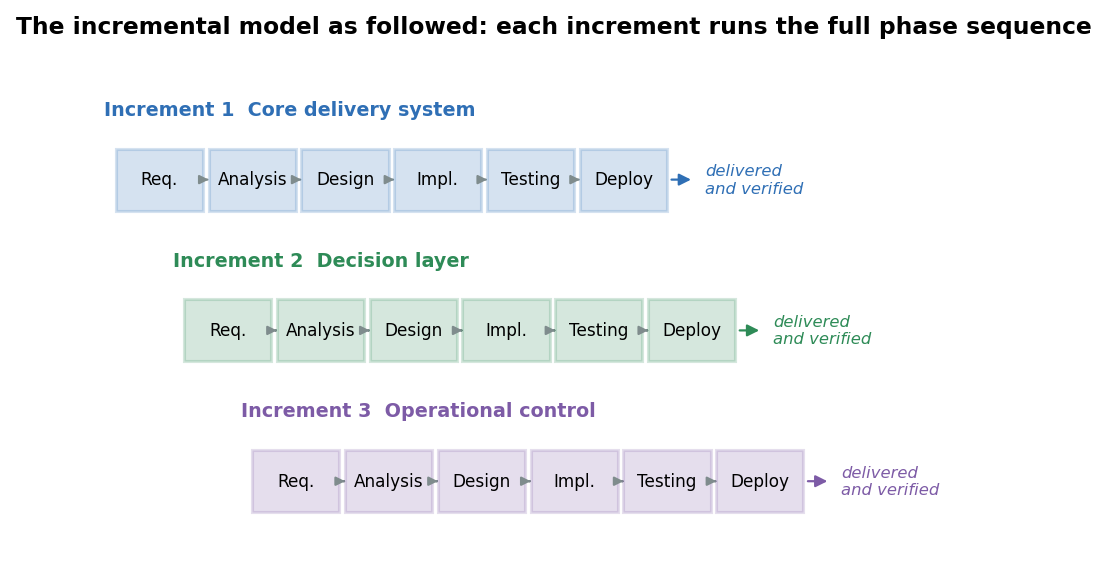
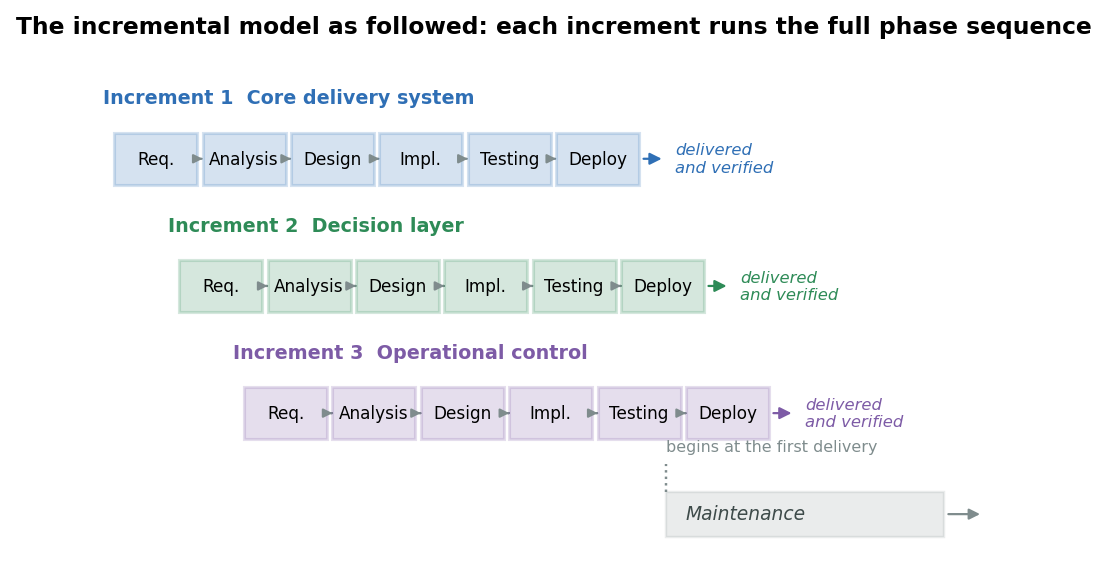
Put maintenance into the process, where it was missing
Maintenance appeared once in the whole report, as half a row in the phases
table. That was a real gap: it is a stage of the process the guidelines require
described, and the phases table claimed every phase runs inside every increment,
which is not true of this one.

Deployment and maintenance are now separate rows, because they behave
differently. Deployment runs once per increment. Maintenance is not bounded by
an increment at all: the moment the first increment was delivered, every later
change to it became maintenance by definition. The second increment did not only
add to the first, it modified delivered code - removing the scheduler, replacing
the retry state machine, changing service to arrival order, rebuilding the
interface. That is maintenance carried out as part of the next increment, and
Sommerville's point that the distinction stops being useful in iterative
processes is exactly what this project shows.

The figure now draws maintenance as a band starting at the first delivery and
running past the last increment, rather than as a phase box at the end of a row,
which would have said the opposite of what happened.

A new section gives the four kinds with the work that belongs to each, all of it
traceable: corrective, the stale process holding the port and the stop script
missing the condition monitor; adaptive, the framework deprecation and the
simulator's predecessor reaching end of life; perfective, the battery retuning
[…]

Changed region(s): [[0.1536, 0.4345, 0.86, 0.931], [0.0921, 0.1552, 0.7371, 0.4034], [0.86, 0.869, 0.8907, 0.9]]

diff --git a/report/RoboFetch_Software_Engineering_Report.tex b/report/RoboFetch_Software_Engineering_Report.tex
@@ -420,7 +420,9 @@ record.
 \uploadedfigure{Figures/fig-incremental-model.png}{0.95\textwidth}
 {The process as followed. Each increment runs the full sequence of phases and ends in a delivered,
 verified subset of the system; the specification is fixed for the increment being built, not for
-the project as a whole.}{fig:incremental}
+the project as a whole. Maintenance is drawn as a band rather than as a phase box, because it is
+not bounded by an increment: it begins the moment the first increment is delivered and continues
+across all of them.}{fig:incremental}
 
 \section{Phases and Their Deliverables}
 The table below gives the phases and what each produced. Every phase runs inside \textbf{every}
@@ -445,8 +447,11 @@ pipeline, delivered across the three increments of Section~\ref{sec:increments}.
 Testing & The automated test suites, and the acceptance suite that runs against the live system.
 Each increment was verified against the simulator before the next was specified; the measured
 results are reported in Chapter~\ref{ch:testing}. \\
-Deployment and maintenance & The launch configuration, the run instructions, the known limitations
-and the handover documentation. \\
+Deployment & The launch configuration and the run instructions. Runs once per increment: each one
+ends in a system that starts from a single command and is verified. \\
+Maintenance & The known limitations, the problem log and the handover documentation. Unlike the
+others this is \emph{not} bounded by an increment; it begins at the first delivery and continues
+across every increment after it. See Section~\ref{sec:maintenance}. \\
 \bottomrule
 \caption{Phases of the process and what each produced.}
 \label{tab:phases}
@@ -550,6 +555,77 @@ return, and the reservation both held and released.
 Each is a page, a queue entry or a database query fitted to machinery that already existed, which
 is why the work was added to the existing architecture rather than prompting a new one.
 
+
+\section{Maintenance}
+\label{sec:maintenance}
+Maintenance is the phase that does not fit inside an increment, and saying where it belongs is part
+of describing this process honestly.
+
+In a single-delivery process the answer is simple: maintenance is what happens after the one
+delivery. Here there are three deliveries, and the moment the first increment was delivered, every
+subsequent change to it became maintenance by definition. The second increment did not only add
+code to the first: it \emph{modified delivered code}, removing the scheduler, replacing the retry
+state machine, changing the order of service to arrival order and rebuilding the interface. That
+work is maintenance carried out as part of the next increment. Sommerville makes the general point
+that in iterative processes the distinction between development and maintenance stops being a
+useful one, and this project is an instance of it.
+
+Maintenance is therefore drawn in Figure~\ref{fig:incremental} as a band beginning at the first
+delivery and running past the last increment, rather than as a box at the end of a row.
+
+\subsection*{The four kinds, and where each occurred}
+All four categories of maintenance occurred, and each is traceable to specific work.
+
+\begin{longtable}{@{}p{0.16\textwidth}p{0.78\textwidth}@{}}
+\toprule
+\textbf{Kind} & \textbf{Where it occurred in this project} \\
+\midrule
+\endhead
+Corrective &
+Repairing faults in delivered behaviour. A stale web process kept answering on the same port while
+the real one failed to start, so orders were accepted and never executed. The stop script did not
+match the condition monitor's process name, so five of them accumulated and the web tier read
+telemetry from several stale robots at once. An acceptance check counted a refused order as one
+that had started, and so reported a scheduling fault that did not exist. \\
+Adaptive &
+Adjusting to a changed environment rather than to a changed requirement. The web framework
+deprecated the startup-event interface the application used, which was migrated to its replacement.
+The simulator's predecessor reached end of life and its attachment mechanism no longer existed on
+the supported platform, so the gripper was rebuilt on the detachable joint the current simulator
+provides. \\
+Perfective &
+Improving what already worked. The battery capacity was retuned twice so that admission control had
+something real to refuse, each change requiring the classifier to be retrained because the training
+label depends on it. The controller's sampling parameters were reduced when they starved the control
+loop, and the pose publication rate was lowered when it saturated a node's executor. The templates
+were reorganised and the test suite reduced to a representative set. \\
+Preventive &
+Reducing the likelihood of future faults rather than fixing a present one. The stop script gained a
+self-audit that names any running process it would fail to kill, so that the next omission is
+reported rather than discovered. A test fails the build if guidance text reappears on the web pages,
+enforcing a rule that would otherwise erode. The acceptance table in this report is generated from
+the recorded results rather than transcribed, after a transcribed copy was found to disagree with
+the figure printed beside it. \\
+\bottomrule
+\caption{The four kinds of maintenance and where each occurred.}
+\label{tab:maintenance}
+\end{longtable}
+
+\subsection*{What makes the maintenance possible}
+Two things carry most of the weight, and both were built during the increments rather than added
+afterwards.
+
+The first is the regression suite. Because every increment ended in a verified system, a change
+made later can be checked against the same criteria that closed the increment it touches. Nothing
+in the maintenance record above was accepted on the strength of an argument that it ought to work.
+
+The second is the record of what was tried and rejected. Several of the corrections above were
+first attempted in ways that failed, and those attempts are documented alongside the fixes, so that
+a later reader does not repeat them. Four attempts to improve delivery accuracy were reverted before
+the cause was correctly identified at the grab rather than at the release; the dead helper from one
+of them is still in the source, deliberately unused, with a comment explaining why calling it makes
+the problem worse. A maintenance record that lists only what worked is of limited use to whoever
+maintains the system next.
 
 \section{Traceability}
 Every requirement in Chapter~\ref{ch:requirements} maps forward to a design element and to at

diff --git a/tools/report/make_figures.py b/tools/report/make_figures.py
@@ -517,8 +517,27 @@ def fig_incremental():
         ax.text(end_x + 0.34, y + box_h / 2, "delivered\nand verified", fontsize=7.4,
                 color=colour, va="center", style="italic")
 
-    ax.set_xlim(-0.35, 9.6)
-    ax.set_ylim(-0.35, 3.15)
+    # Maintenance is NOT a box at the end of a row. The moment increment 1 is delivered, every
+    # later change to it is maintenance, so it runs as a band from the first delivery onwards and
+    # does not stop at the last increment. Drawing it as a phase box would say the opposite.
+    first_delivery_x = len(phases) * (box_w + gap) + 0.24
+    band_y, band_h, band_end = -0.78, 0.36, 9.20
+    ax.add_patch(Rectangle((first_delivery_x, band_y), band_end - first_delivery_x, band_h,
+                           facecolor=GREY, alpha=0.16, edgecolor=GREY, lw=1.1))
+    ax.text(first_delivery_x + 0.22, band_y + band_h / 2, "Maintenance",
+            fontsize=8.4, color="#3E4B4A", va="center", style="italic")
+    ax.add_patch(FancyArrowPatch((band_end, band_y + band_h / 2),
+                                 (band_end + 0.45, band_y + band_h / 2),
+                                 arrowstyle="-|>", mutation_scale=10, color=GREY))
+    # a short tick, not a full riser: it marks where maintenance starts without
+    # drawing a line through the increments above it
+    ax.plot([first_delivery_x, first_delivery_x], [band_y + band_h, band_y + band_h + 0.22],
+            ls=":", lw=1.1, color=GREY)
+    ax.text(first_delivery_x, band_y + band_h + 0.30, "begins at the first delivery",
+            fontsize=7.2, color=GREY, ha="left", va="bottom")
+
+    ax.set_xlim(-0.35, 10.1)
+    ax.set_ylim(-1.00, 3.15)
     ax.axis("off")
     ax.set_title("The incremental model as followed: each increment runs the full phase sequence")
     save(fig, "fig-incremental-model.png")
